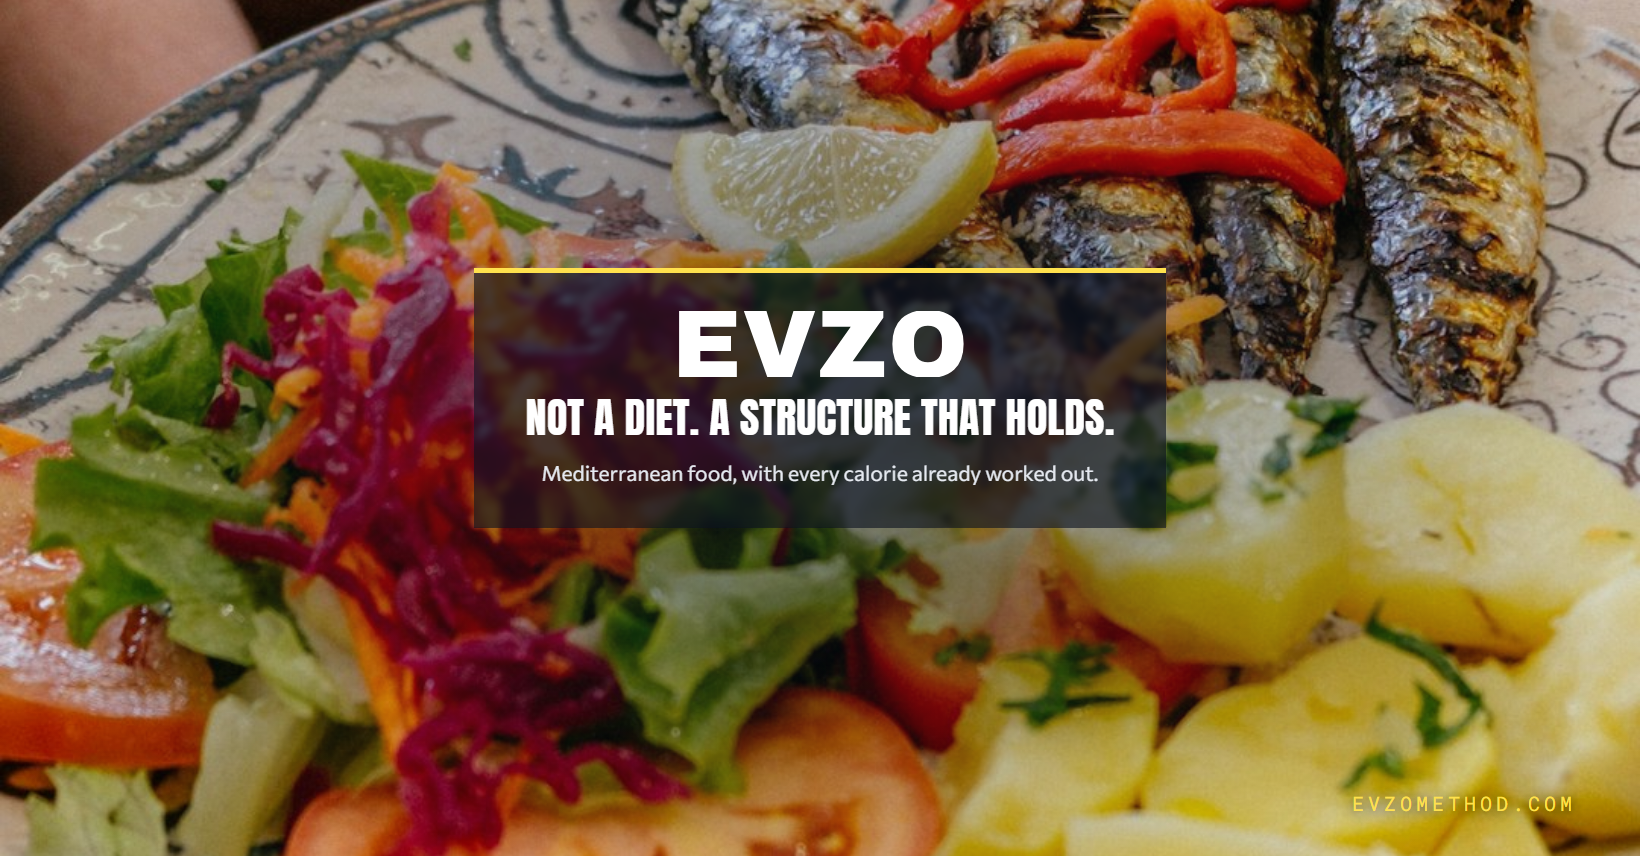
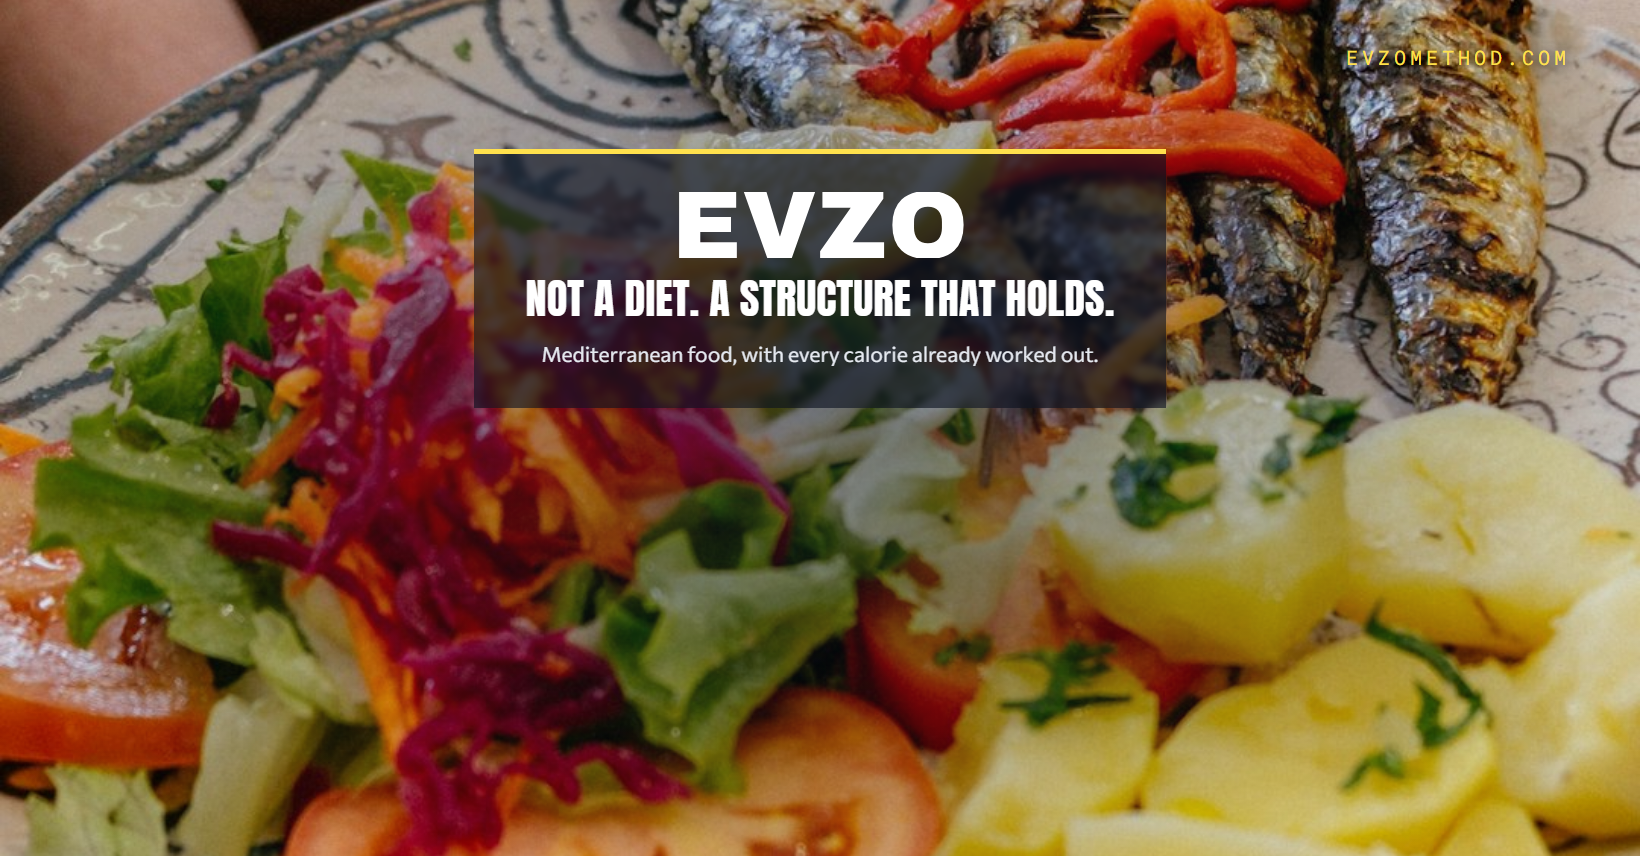
Keep the covers clear of the profile picture
The profile picture sits ON TOP of the cover, not beside it — bottom left
on desktop, bottom CENTRE on mobile. Every one of these designs put its
words in the vertical middle, so on a phone the avatar landed straight
through them. That is what was wrong with them, and it was not something
the earlier "safe area" note accounted for.

All readable content now lives above 55% of the frame and the bottom 45%
is left as photograph. The yellow band moved from dead centre to the upper
third. The domain moved from bottom-right to top-right.

The type-only cover had a second fault the previews exposed: its diagonal
ran across the top straight through the wordmark, navy on navy. The
diagonal now sits at the BOTTOM, in the region the profile picture covers
anyway.

Also corrects the crop arithmetic in the header comment. Desktop is wider
than the canvas so it keeps full width and cuts ~116px off top and bottom;
mobile is taller so it keeps full height and cuts only ~59px off each
side. I had those the wrong way round.

tools/fbpreview.py renders each cover as both crops with the avatar drawn
on top, so this is checked rather than assumed. Output is gitignored.

Changed region(s): [[0.2799, 0.1519, 0.7152, 0.6379], [0.8396, 0.9112, 0.964, 0.972], [0.8085, 0.0607, 0.964, 0.0911]]

diff --git a/tools/fbpreview.py b/tools/fbpreview.py
@@ -1,0 +1,78 @@
+# -*- coding: utf-8 -*-
+"""Preview a Facebook cover the way Facebook actually shows it.
+
+    python tools/fbpreview.py
+
+Renders each cover twice — once cropped as desktop shows it, once as mobile
+does — with the profile picture drawn on top in its real position. Guessing
+at this is how you end up with a headline sitting behind a circular avatar.
+
+Geometry, measured from a 1640 x 856 upload:
+
+  desktop   shows 820 x 312   -> keeps full width, cuts ~116px top and bottom
+                                 profile picture bottom LEFT
+  mobile    shows 640 x 360   -> keeps full height, cuts ~59px each side
+                                 profile picture bottom CENTRE
+
+Output goes to brand/_preview/ which is gitignored - it is a checking tool,
+not an asset.
+"""
+import os
+from PIL import Image, ImageDraw
+
+ROOT = os.path.dirname(os.path.dirname(os.path.abspath(__file__)))
+BRAND = os.path.join(ROOT, "brand")
+OUT = os.path.join(BRAND, "_preview")
+os.makedirs(OUT, exist_ok=True)
+
+COVERS = ["fb-band", "fb-bright", "fb-three", "fb-type"]
+
+
+def crop_to(img, aspect):
+    """Centre-crop to an aspect ratio, exactly as Facebook does."""
+    w, h = img.size
+    if w / h > aspect:          # too wide: cut the sides
+        nw = int(round(h * aspect))
+        left = (w - nw) // 2
+        return img.crop((left, 0, left + nw, h))
+    nh = int(round(w / aspect))  # too tall: cut top and bottom
+    top = (h - nh) // 2
+    return img.crop((0, top, w, top + nh))
+
+
+def avatar(img, where):
+    """Draw the profile picture over the cover, where Facebook puts it."""
+    d = ImageDraw.Draw(img, "RGBA")
+    w, h = img.size
+    r = int(h * 0.56)                      # diameter, about 56% of cover height
+    if where == "left":
+        cx = int(w * 0.12)
+    else:
+        cx = w // 2
+    cy = int(h * 0.92)                     # hangs off the bottom edge
+    box = (cx - r // 2, cy - r // 2, cx + r // 2, cy + r // 2)
+    d.ellipse(box, fill=(255, 30, 30, 150), outline=(255, 255, 255, 230), width=6)
+    d.text((box[0] + 14, cy - 10), "PROFILE PIC", fill=(255, 255, 255, 255))
+    return img
+
+
+for name in COVERS:
+    src = os.path.join(BRAND, name + ".png")
+    if not os.path.exists(src):
+        print("missing: " + name)
+        continue
+    with Image.open(src) as im:
+        im = im.convert("RGB")
+
+        desktop = crop_to(im.copy(), 820 / 312).resize((820, 312), Image.LANCZOS)
+        desktop = avatar(desktop, "left")
+        desktop.save(os.path.join(OUT, name + "-desktop.png"))
+
+        mobile = crop_to(im.copy(), 640 / 360).resize((640, 360), Image.LANCZOS)
+        mobile = avatar(mobile, "centre")
+        mobile.save(os.path.join(OUT, name + "-mobile.png"))
+
+        print("previewed " + name)
+
+print("\nbrand/_preview/ — the red circle is where the profile picture sits.")
+print("Anything under it is not visible on a real Page.")
